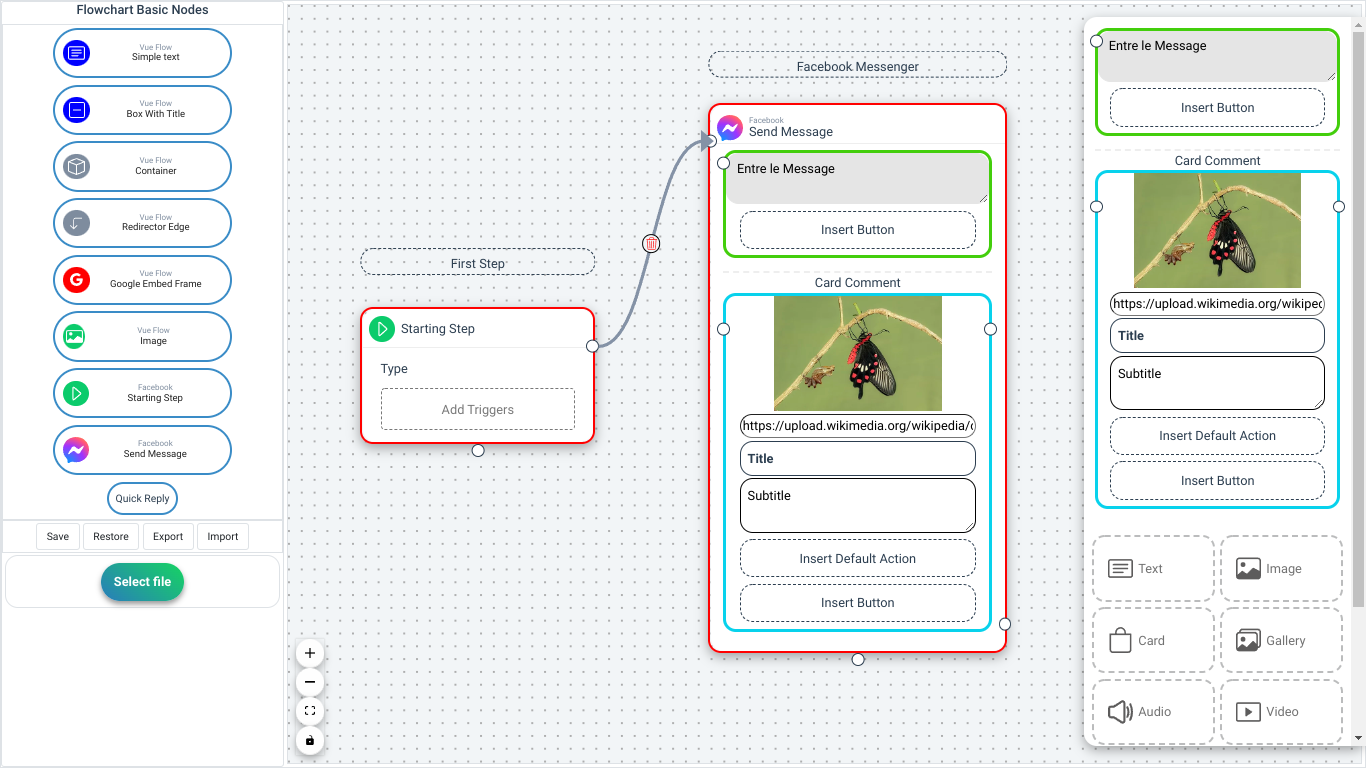
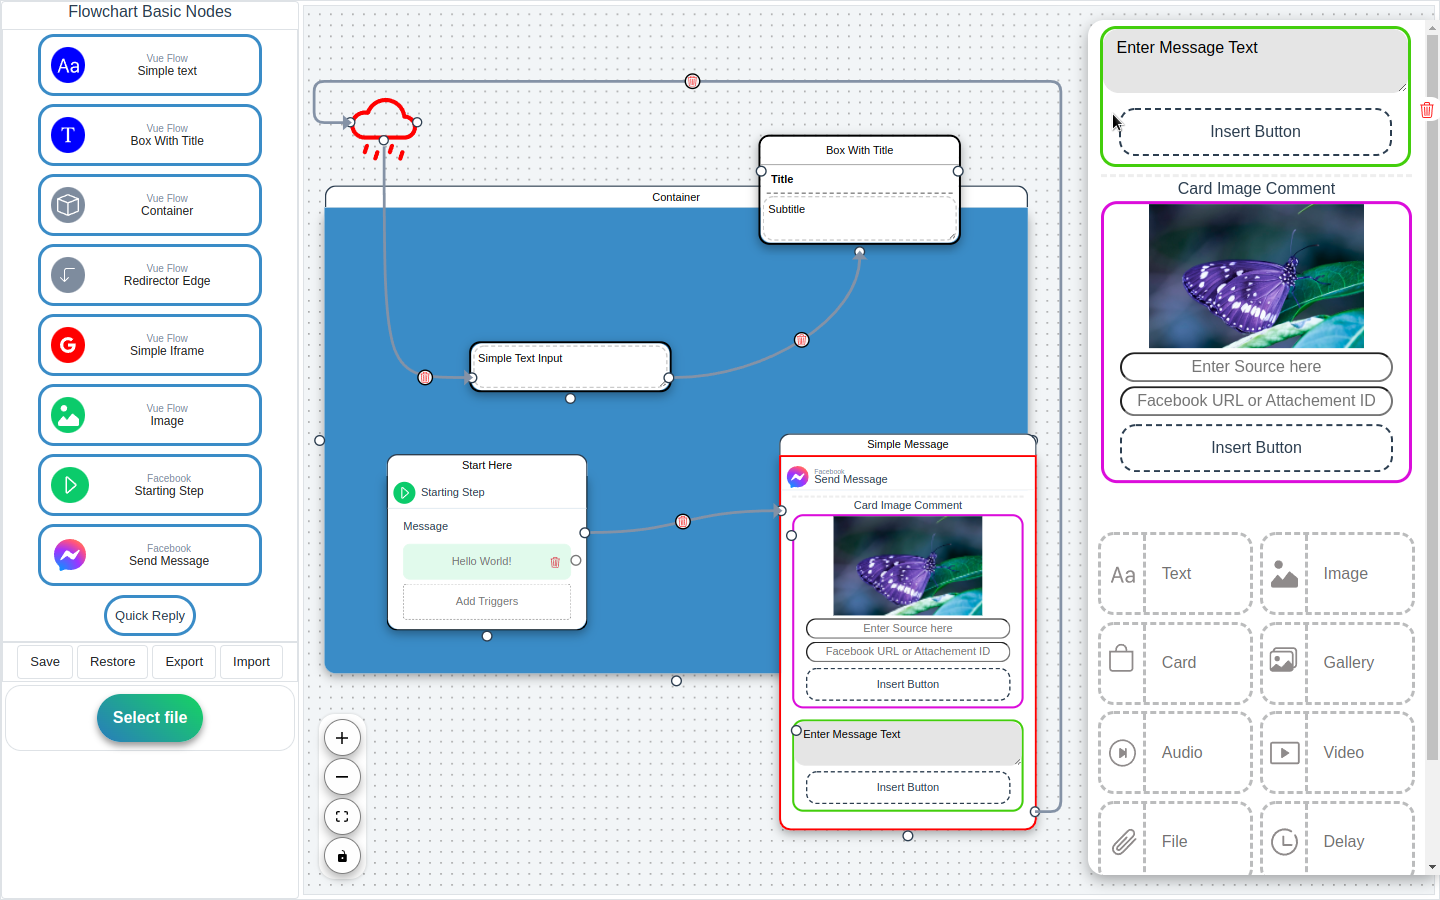
Adjusted Facebook message and Starting Step style.

diff --git a/src/components/facebookMessage.vue b/src/components/facebookMessage.vue
@@ -1,6 +1,6 @@
 <script setup>
 import { ref, computed, watch } from "vue";
-import { Handle, Position } from '@vue-flow/core'
+import { Handle, Position } from "@vue-flow/core";
 
 import messageRendererVue from "./messageRenderer.vue";
 
@@ -69,7 +69,6 @@ const props = defineProps({
     @mouseenter="transparent = false"
     @mouseleave="transparent = true"
     class="d-flex flex-column align-items-center"
-    style="background-color: white"
   >
     <div class="label">
       <input type="text" v-model="localStates.label" />
@@ -94,7 +93,7 @@ const props = defineProps({
           <div style="width: 2rem; height: 2rem">
             <Messenger />
           </div>
-          <div class="p-2 starting-step-header d-flex flex-column">
+          <div class="p-2 d-flex flex-column">
             <div style="font-size: x-small; color: #7e8c9e; height: 8px">
               Facebook
             </div>
@@ -180,13 +179,15 @@ const props = defineProps({
 .main-container {
   max-width: calc(23rem + 6px);
   border: 2px solid black;
-  border-top: 2px transparent;
+  border-top: 0px;
   border-bottom-right-radius: 1rem;
   border-bottom-left-radius: 1rem;
+  margin-top: -1px;
   box-shadow: rgba(0, 0, 0, 0.35) 0px 5px 15px;
 }
 .main-container:hover {
-  border: 3px #0084ff solid;
+  border: 2px #0084ff solid;
+  border-top: 0px;
   border-bottom-right-radius: 1rem;
   border-bottom-left-radius: 1rem;
 }
@@ -197,8 +198,6 @@ const props = defineProps({
   border-bottom: 1px solid #eee;
 }
 .starting-step {
-  border-top-left-radius: 1rem;
-  border-top-right-radius: 1rem;
   background-color: white;
   width: 23rem;
   height: 3rem;

diff --git a/src/components/startingStep.vue b/src/components/startingStep.vue
@@ -1,6 +1,6 @@
 <script setup>
 import { ref, computed, watch } from "vue";
-import { Handle, Position } from '@vue-flow/core'
+import { Handle, Position } from "@vue-flow/core";
 
 // Simple Id Generator for basic Usage.
 import getId from "../utils/radomId.js";
@@ -89,7 +89,6 @@ const props = defineProps({
     @mouseenter="transparent = false"
     @mouseleave="transparent = true"
     class="d-flex flex-column align-items-center"
-    style="background-color: white;"
     :style="{ borderColor: selectedColor ? 'red' : '' }"
   >
     <div class="label">
@@ -252,8 +251,9 @@ const props = defineProps({
 }
 .main-container {
   max-width: calc(18rem + 6px);
+  margin-top: -1px;
   border: 2px solid black;
-  border-top: 2px transparent;
+  border-top: 0px;
   border-bottom-right-radius: 1rem;
   border-bottom-left-radius: 1rem;
   box-shadow: rgba(0, 0, 0, 0.35) 0px 5px 15px;
@@ -264,8 +264,6 @@ const props = defineProps({
   border-bottom-left-radius: 1rem;
 }
 .starting-step {
-  border-top-left-radius: 1rem;
-  border-top-right-radius: 1rem;
   background-color: white;
   width: 18rem;
   height: 3rem;

diff --git a/src/App.vue b/src/App.vue
@@ -224,15 +224,28 @@ const onChange = (event) => {
     </div>
 
     <!-- Message Editor extension -->
-    <messageEditorVue
-      v-if="messageToEdit != ''"
-      :id="messageToEdit"
-    ></messageEditorVue>
+    <Transition name="fade">
+      <messageEditorVue
+        v-if="messageToEdit != ''"
+        :id="messageToEdit"
+      ></messageEditorVue>
+    </Transition>
+
     <!-- Message Editor extension -->
   </div>
 </template>
 
 <style>
+.fade-enter-active,
+.fade-leave-active {
+  transition: opacity 1s 0.1s;
+}
+
+.fade-enter-from,
+.fade-leave-to {
+  opacity: 0;
+}
+
 html,
 body,
 #app {

diff --git a/src/utils/createVueNode.js b/src/utils/createVueNode.js
@@ -26,7 +26,7 @@ const createVueNode = (event, addNodes, project, store) => {
             {
               id: getId(),
               type: "messengerTextVue",
-              text: "Entre le Message",
+              text: "Enter Message Text",
               buttons: [],
             },
           ],

diff --git a/src/assets/initial-elements.js b/src/assets/initial-elements.js
@@ -1,5 +1,1 @@
-import { Position } from "@vue-flow/core";
-
-export const initialElements = [
-  {id: '1', type: 'input', label: 'Node 1', position: {x:1, y:1}, sourcePosition: Position.Right}
-]
+export const initialElements = []

diff --git a/README.md b/README.md
@@ -1,20 +1,74 @@
 # Facebook Messenger Flowchart
+[![License: MIT](https://img.shields.io/badge/License-MIT-yellow.svg)](https://opensource.org/licenses/MIT)
 
 This app is an example of how to use [vue-flow](https://github.com/bcakmakoglu/vue-flow) with [Pinia](https://pinia.vuejs.org/) store, to create a flow with custom components, its main purpose is to create
-flowchart that helps to describe Facebook Messenger bot action. The flowchart and all of its data can be exported and imported to simple text file. The project is just at it's begining but many functionnality
-will be implemented.
+flowchart that helps to describe Facebook Messenger bot action. The flowchart and all of its data can be exported and imported to simple text file. The project is just at it's begining but many functionnality will be implemented.
+
+## Demo
+A functional demo of the App can be found on : 
+https://www.baiboly.site/apps/messenger-flowchart
 
 ## How It Works
 
-* **Nodes** can be dragged from the sidebar and dropped into the view.
-* Adding **Messenger Items** can be done using the messenger editor.
-* All functionnality of [vue-flow](https://github.com/bcakmakoglu/vue-flow) can be used on it.
+- **Nodes** can be dragged from the sidebar and dropped into the view.
+- Adding **Messenger Items** can be done using the messenger editor, to open it we just have to double click a Facebook Send Message Node.
+- All functionnality of [vue-flow](https://github.com/bcakmakoglu/vue-flow) can be used on it like all keyboards shortcuts as "BackSpace" for deleting elements and "Shift" to toogle selection so it is possible to drag many nodes at once.
 
 ## Screenshoot
 
 ![](./public/screenshoot.png)
 
+## Description of custom components
+### Primary Components
+
+* `Simple Text` : A node that is used as simple text container.
+* `Box with title` : As the previous node, this one has two more inputs, and a label and a title.
+* `Container` : This components has many special features, it cas be used as a parent to other components. Dragging directly a node from the sidebar into its body will set this one as the dragged node's parent. As described in [vue-flow](https://github.com/bcakmakoglu/vue-flow) docs when a parent container move, all of it's childs will move along him, it is possible to dynamicaly set and unset the parent of a child by using the `Menu` that is displayed when the element is hovered.
+* `Redirector Edge` : The use case of this node is to redirect the edge from the right hanlde of a node to it's left Handle, so it is possible to get a better control on how the flow returns back in the diagram.
+* `Simple Iframe` : [vue-flow](https://github.com/bcakmakoglu/vue-flow) is a tool that helps us to dynamicaly move DOM elements in the view, so all elements that exists can be used as a custom node, this one is a simple iFrame that accept links as Dynamic input.
+* `Image` : It is possible to display an image directly in a custom node, as we stated earlier, the example of a Vide is shown in the secondary components inside a Facebook Message node.
+* `Starting Step` : A simple node that helps to describe a step that will trigger a Message, or everything else.
+* `Send Message` : This node displays secondary components inside it, we can toggle the `Message Editor` by double clicking the node itself.
+* `Quick Reply` : This components will display a Quick Reply like node.
+
+#### Custom Edges
+  Edges gets its source from a Handle to point to another Handle, Edges in VueFlow is just a simple SVG, so we can create a custom Edge by creating custom SVG. VueFlow offer a great flexibility with this aproach. I tryed to handle as much case as I could and colored to red unhandled Edges cases.
+
+### Secondary Components
+* `Message Editor` : The message editor helps to add or to delete elements in the `Send Message` node. To open it, we can double click into a Facebook Message Node. The same action can be used to close it, or we can just use the "Esc" button.
+
+It is worth to note that `Drag and Drop` functionnalities are enabled only in it to helps sorting the created elements. 
+
+This is the lists of all components available as Facebook Message : 
+
+  - `Simple Message Text` : We can add up to three buttons. 
+  - `Image` : With two inputs, one of them is an input source, if filled, it will change the image by the one which the url is redirecting to, and a button.
+  - `Card` : Similar to the image, but it has three inputs, a source, a title and a subtitle. It has also three buttons and a default action.
+  - `Audio, File, Delay, UserInput, Dynamic` : These three elements are just a simple input with some styles and logos.
+  - `Video` : This one can take a video url as an input, so it can play it directly in the flowchart.
+
+More informations on the messenger custom message that Facebook Messenger API expose can be found on their official documentation : 
+[Meta For Developers](https://developers.facebook.com/docs/messenger-platform/reference/send-api/).
+
+:point_up: This another program also written in [Vue.js](https://vuejs.org/) was created to make the process of creating all types of message as a JSON less painfull :wink: : [fb-send-api-helper](https://github.com/MJaonary/fb-send-api-helper).
+
+## Menu Functionalities
+When we hover an node, a little menu will always apear at the top of the components :
+
+* `Color Picker` : It can be used to change the color attribute of nodes by dynamicaly choosing a custom color.
+* `Delete Icon` : Instead of the VueFlow default delete function by directly pressing "BackSpace", we can use this menu button to trigger the same action.
+* `Copy Icon` : A node can be duplicated by pressing this button, the result is a different element, with the same type and the same content.
+* `Setting Icon` : `Container` It was stated before that a container can act as a parent for one or many node, we can dynamicaly assign or remove a parent from the menu with this option.
+
+## Save - Restore - Import - Export
+These four functionnality helps to save localy and share the generated flowchart.
+* `Save` : This option will save the current state of the flowchart to the localStorage.
+* `Restore` : The Restore option work with the `Save` one, to restore directly the latest saved state by replacing all of it.
+* `Export` : When this option is choosen, the latest state will be exported to a filen, in this case, downloaded.
+* `Import` : A valid exported file can be imported and stored as a new saved state that we can `Restore`.
+
 ## Project Setup
+
 The project is a Vuejs app created using Vite.
 
 ```sh
@@ -39,3 +93,6 @@ This project is built with
 
 - [vue-flow](https://github.com/bcakmakoglu/vue-flow)
   - Vue flow made possible building this tool by simplifing everything.
+
+- [vue-smooth-dbd](https://github.com/kutlugsahin/vue-smooth-dnd)
+  - This tools helped with the Drag and Drop Functionality. 
